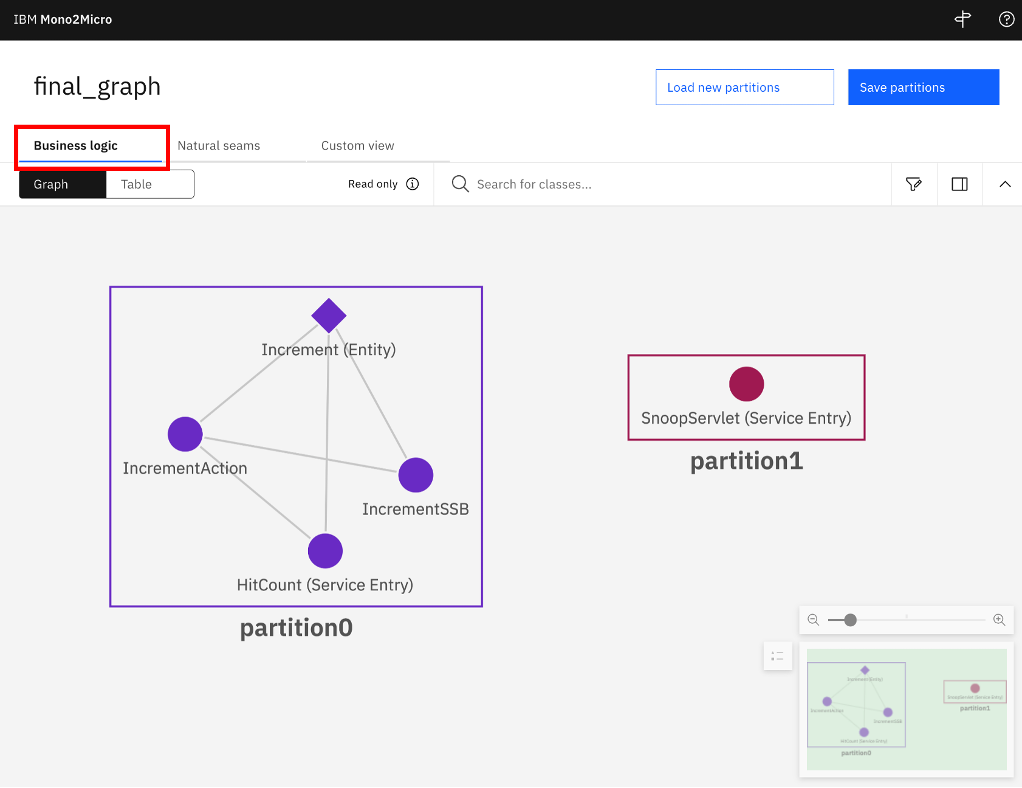
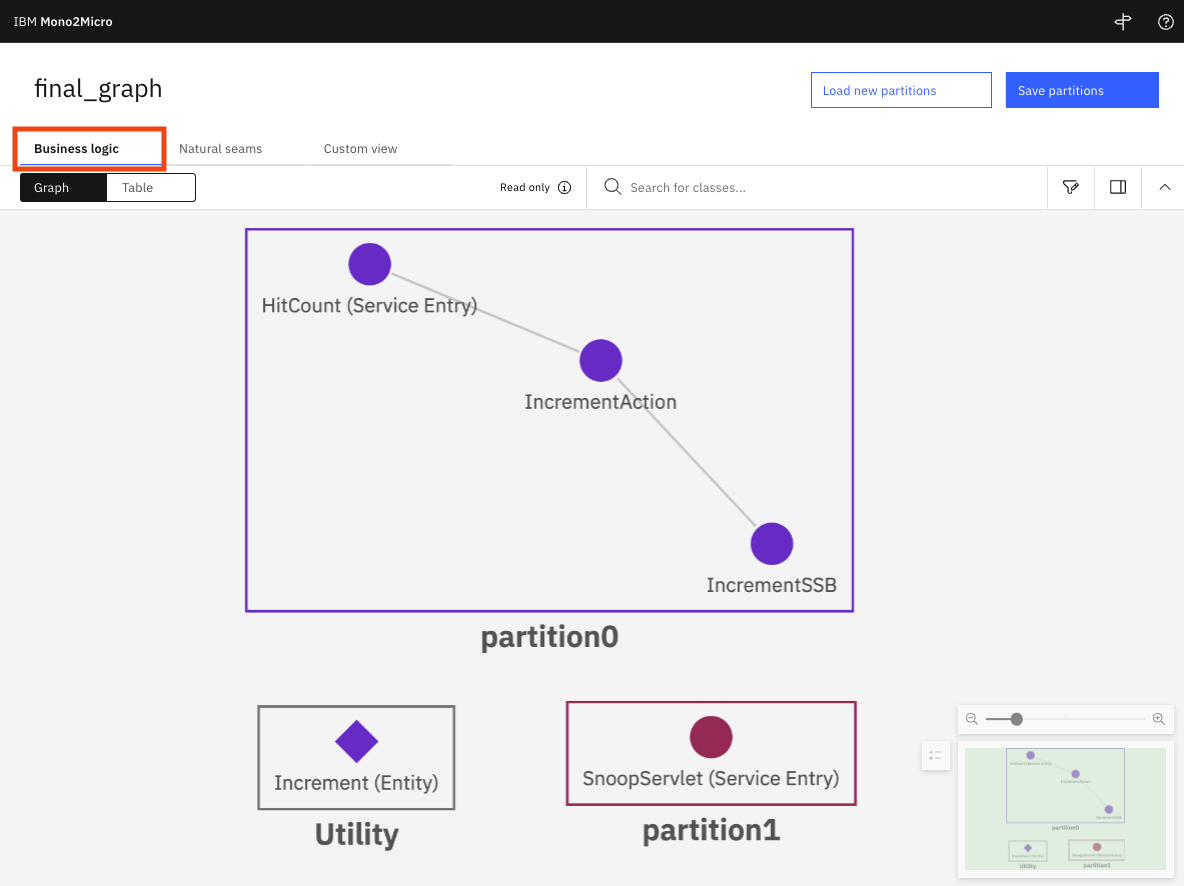
updates for release 23.0.06

diff --git a/1152-Mono2Micro-refactorJavaAppsToMicroservices/README.md b/1152-Mono2Micro-refactorJavaAppsToMicroservices/README.md
@@ -436,7 +436,7 @@ command line tool.
         
     command output:     
     
-        mono2micro-cli version: 23.0.04.0
+        mono2micro-cli version: 23.0.06.0
 
 3.  Run the Mono2Micro CLI help command:
   
@@ -477,16 +477,16 @@ command line tool.
         -h, --help                               Display help information
         -l, --license=<1|2|3|4>                  Accept license:
                                                 1. IBM WebSphere Hybrid Edition 5.1 (L-AMIK-C92MN6)
-                                                2. IBM Mono2Micro 23.0.04 trial (L-CQBY-93TJUZ)
-                                                3. IBM WebSphere Application Server for z/OS V9.0.5.14 (L-VNYU-W694VR)
+                                                2. IBM Mono2Micro 23.0.06 trial (L-KNAV-6S5BZN)
+                                                3. IBM WebSphere Application Server for z/OS V9.0.5.15 (L-QJFA-M33W3S)
                                                 4. IBM WebSphere Application Server for z/OS V8.5.5.23 (L-LRGS-5TV3HE)
         -r, --repo=<string>                      Set a custom repository prefix to pull Mono2Micro images from.
                                                 If this is not specified or if it is set to "default" then the images will 
                                                     be pulled from the product repositories.
         -v, --license-view=<1|2|3|4>             View license:
                                                 1. IBM WebSphere Hybrid Edition 5.1 (L-AMIK-C92MN6)
-                                                2. IBM Mono2Micro 23.0.04 trial (L-CQBY-93TJUZ)
-                                                3. IBM WebSphere Application Server for z/OS V9.0.5.14 (L-VNYU-W694VR)
+                                                2. IBM Mono2Micro 23.0.06 trial (L-KNAV-6S5BZN)
+                                                3. IBM WebSphere Application Server for z/OS V9.0.5.15 (L-QJFA-M33W3S)
                                                 4. IBM WebSphere Application Server for z/OS V8.5.5.23 (L-LRGS-5TV3HE)
         -z, --verbose                            Enable verbose mode
 
@@ -503,8 +503,8 @@ command line tool.
     <tr class="odd">
     <td><p>License not accepted. Choose from the following options:</p>
     <p>1. IBM WebSphere Hybrid Edition 5.1 (L-AMIK-C92MN6)</p>
-    <p>2. IBM Mono2Micro 23.0.04 trial (L-CQBY-93TJUZ)</p>
-    <p>3. IBM WebSphere Application Server for z/OS V9.0.5.14 (L-VNYU-W694VR)</p>
+    <p>2. IBM Mono2Micro 23.0.06 trial (L-KNAV-6S5BZN)</p>
+    <p>3. IBM WebSphere Application Server for z/OS V9.0.5.15 (L-QJFA-M33W3S)</p>
     <p>4. IBM WebSphere Application Server for z/OS V8.5.5.23 (L-LRGS-5TV3HE)</p>
     <p>Select [1/2/3/4]: 2</p></td>
     </tr>
@@ -520,7 +520,7 @@ command line tool.
 8.  The **next steps** message will be displayed when the Mono2Micro-CLI
     is successfully installed:
 
-        License used: IBM Mono2Micro 23.0.04 trial (L-CQBY-93TJUZ)
+        License used: IBM Mono2Micro 23.0.06 trial (L-KNAV-6S5BZN)
         Container engine used: Docker
         Completed downloading all Mono2Micro images
 
@@ -1189,16 +1189,17 @@ generate partition recommendations.
         ./mono2micro recommend -h
     
     command output: 
-    
+
         Run the AI engine on collected application data to recommend partitions for the monolith
         Usage: mono2micro recommend [options] -d=<dir>
         Options:
-        -d, --data-dir=<dir>   Specify directory containing the application 
-                                data files, subdirectories, and optional config.ini
-        -h, --help             Display help information
-        -s, --status           Show the last stage that the AI engine was run 
-                                to completion for this application
-        -z, --verbose          Enable verbose mode
+        -d, --data-dir=<dir>            Specify directory containing the application data files, subdirectories, and optional config.ini
+            --exclude-utility-classes   Exclude utility classes from consideration for AI analysis and recommendation of partitions. All other
+                                            application classes will be considered for placement in recommended partitions by Mono2Micro, and the utility
+                                            classes will be placed in a special group which can be packaged as a utility jar.
+        -h, --help                      Display help information
+        -s, --status                    Show the last stage that the AI engine was run to completion for this application
+        -z, --verbose                   Enable verbose mode
 
 
 3.  Run the AI engine using the following command:
@@ -1350,7 +1351,7 @@ In this exercise, we will ensure that the Web components(Servlets,
 
     ![Graphical user interface, diagram, application, Teams Description automatically generated](./images/media/image53_b.png)
 
-    It is important to notice that the same class labeled as “Utility” on the “Table” mode appears in “Graph” mode as diamond-shaped.
+    It is important to notice that the same class labeled as “Utility” on the “Table” mode appears in “Graph” mode as diamond-shaped inside a specific group called "Utility". Utility classes mostly have incoming method calls from other classes in the application. They might also have, or alternatively have, mostly static member fields and methods, and various other characteristics that the AI engine determines are likely utilitarian.
 
 3.  From the Business Logic view, notice that there are two
     **partitions** created. It could be cases where one special partition for
@@ -1372,16 +1373,19 @@ In this exercise, we will ensure that the Web components(Servlets,
 
     ![Graphical user interface, application Description automatically  generated](./images/media/image56.png)
 
-    - **Partiton0** contains four classes (HitCount, IncrementAction,
-    Increment and IncrementSSB) which the classes that were identified
+    - **Partiton0** contains three classes (HitCount, IncrementAction, 
+    and IncrementSSB) which the classes that were identified
     as part of the “**hitcount”** use case from our test cases.
     
-      - Within partition0, you can see that mono2micro observed
+     <<< TODO: decide if keep it or not - Within partition0, you can see that mono2micro observed
         intra-partition communication, as indicated by the lines between
-        the classes**.**
+        the classes**.** >>>
 
     - **Partiton1** contains one class (SnoopServlet) which is the only
     class that was observed in the “snoop” test case
+
+    - **Utility** contains one class (Increment) which was identified by
+    Mono2Micro as potential utility class.
 
     - As you can see, there are **no lines** between these partitions,
     indicating that there is no partition to partition
@@ -1466,7 +1470,15 @@ the UI, and includes these basic steps, which you will do next:
 
     ![Graphical user interface, diagram Description automatically  generated](./images/media/image62.png)
 
-3.  Rename “partition1” to “web”
+3. Move the **Increment** (Entity) class to the "**partition0**" partition
+
+    Since just one class was identified as "**Utility**", it can be moved to another partition for the simplicity of the current example. In real-world large Java applications, multiple classes can be part of the "**Utility**" partition. In this case, you may package any application classes in "**Utility**" as a utility .jar file and then place it in all other partitions that depend on those utility classes.
+ 
+    a.  Drag and Drop the **Increment** class from **Utility** partition to the **partition0** partition. 
+
+    ![](./images/media/image62_b.png)
+
+4.  Rename “partition1” to “web”
     
     a.  Click on **partition1** that includes the SnoopServlet class and
         then on the “**Details**” button
@@ -1489,7 +1501,7 @@ the UI, and includes these basic steps, which you will do next:
 
     ![Graphical user interface, text, application, chat or text message  Description automatically generated](./images/media/image68.png)
 
-4.  Move the **HitCount** (Service Entry) class to the “**web**”
+5.  Move the **HitCount** (Service Entry) class to the “**web**”
     partition
     
     a.  Drag and Drop the **HitCount** class from **partition0** to the
@@ -1501,7 +1513,7 @@ the UI, and includes these basic steps, which you will do next:
 
     ![Diagram Description automatically  generated](./images/media/image58_b.png)
 
-5.  Click on the “**Save partitions**” button to save the updated custom
+6.  Click on the “**Save partitions**” button to save the updated custom
     view. The customized **final\_graph.json** file is saved to the
     **“/home/ibmdemo/Downloads”** folder.
 
